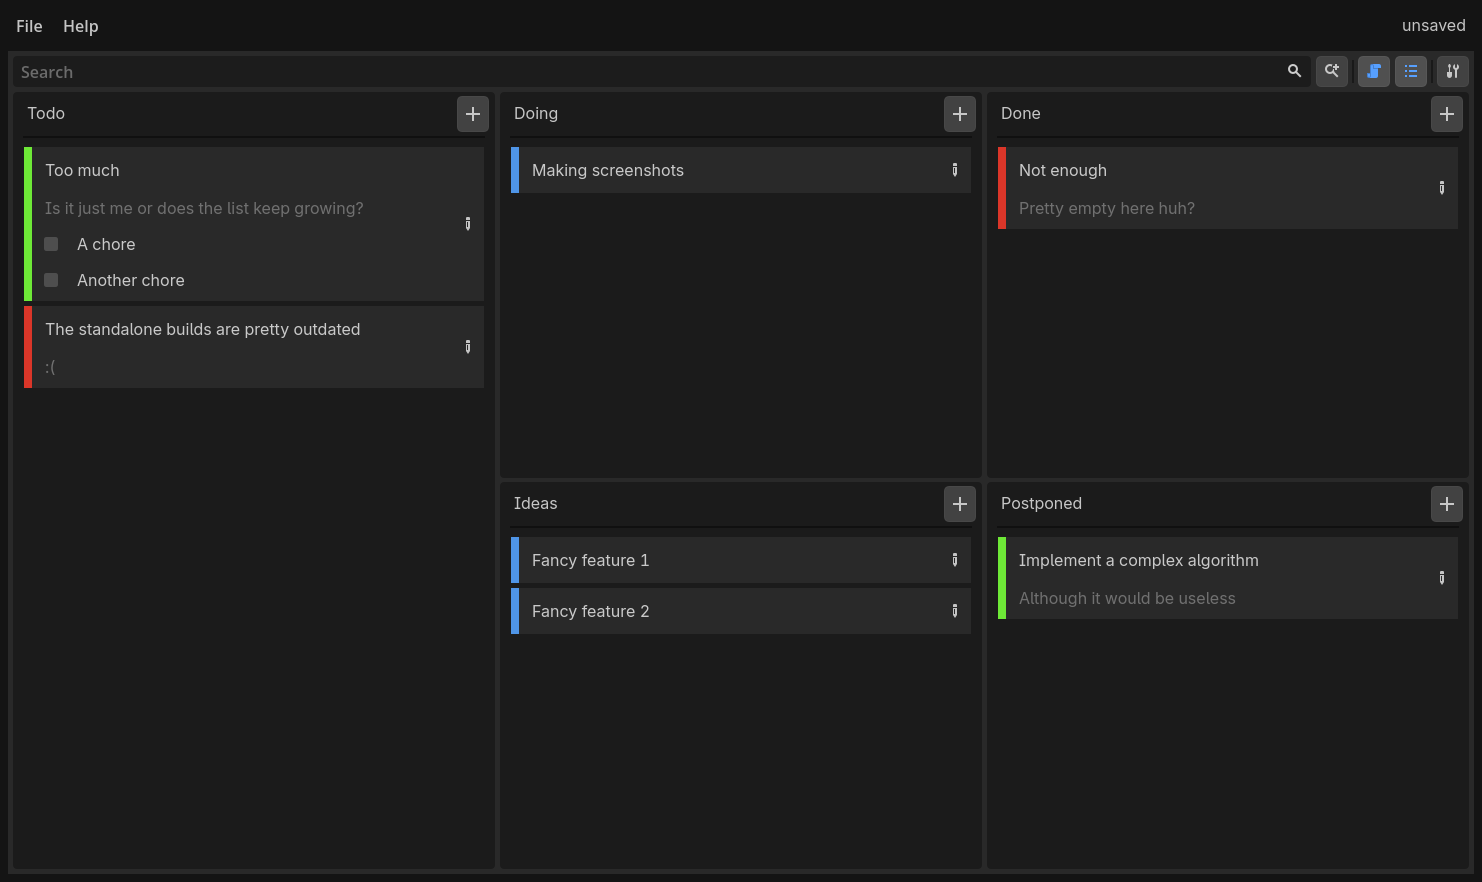
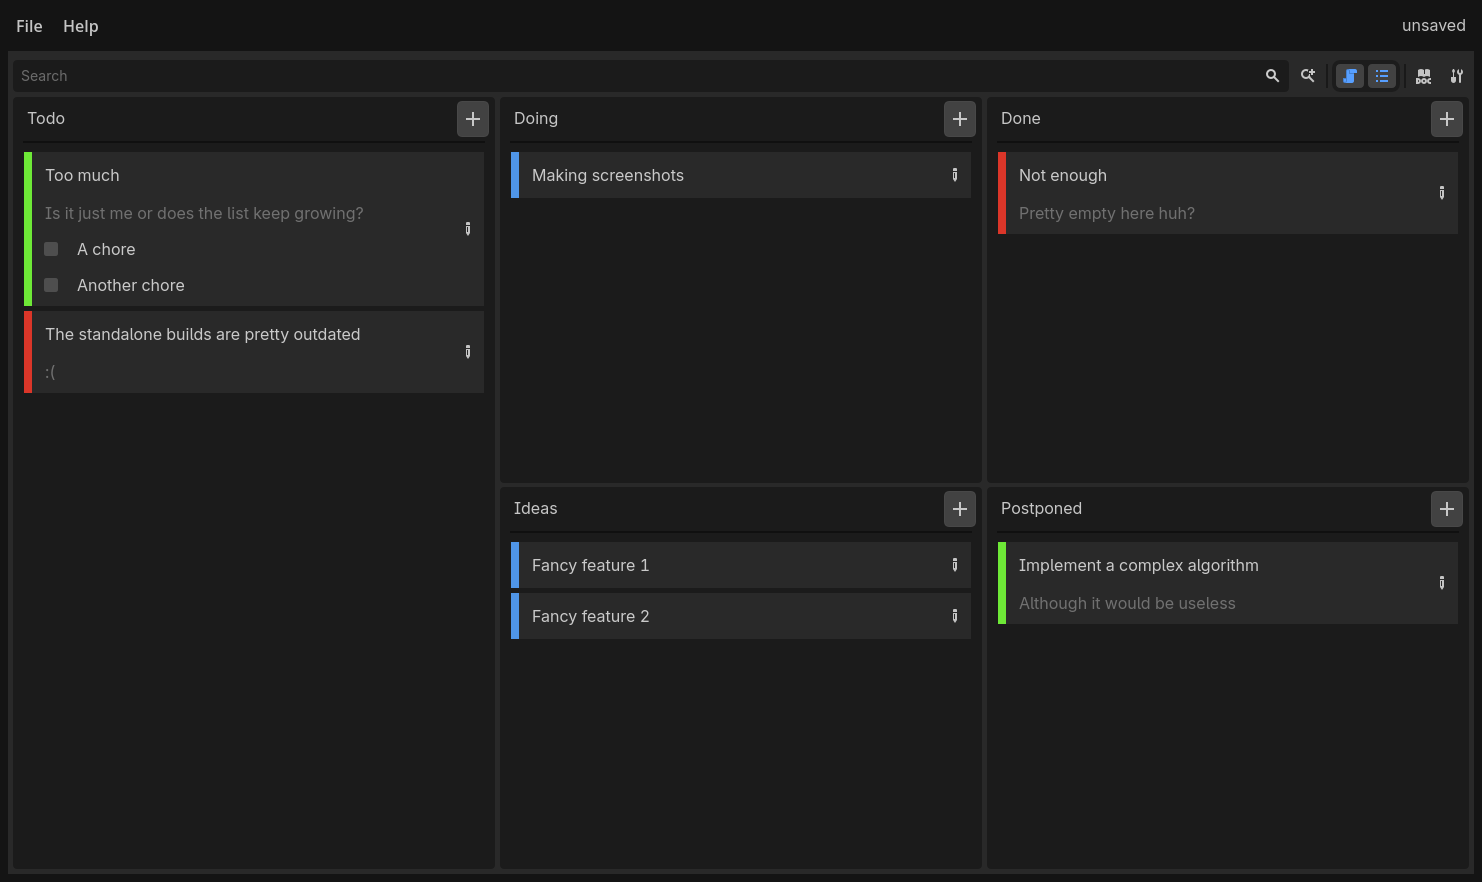
Bump version

diff --git a/CHANGELOG.md b/CHANGELOG.md
@@ -4,6 +4,13 @@ Changelog
 This file contains a manually maintained list of the most relevant changes for each version.
 Minor bug fixes or UX changes might be missing. Use `git log` for that.
 
+v2.3.0
+-----------------
+- Minimum Godot Version: 4.8
+- Migrated to the new dock system:
+    - Tasks dock can now be made floating.
+- Updated header styling to align better with 4.8.
+
 v2.2.0
 -----------------
 
